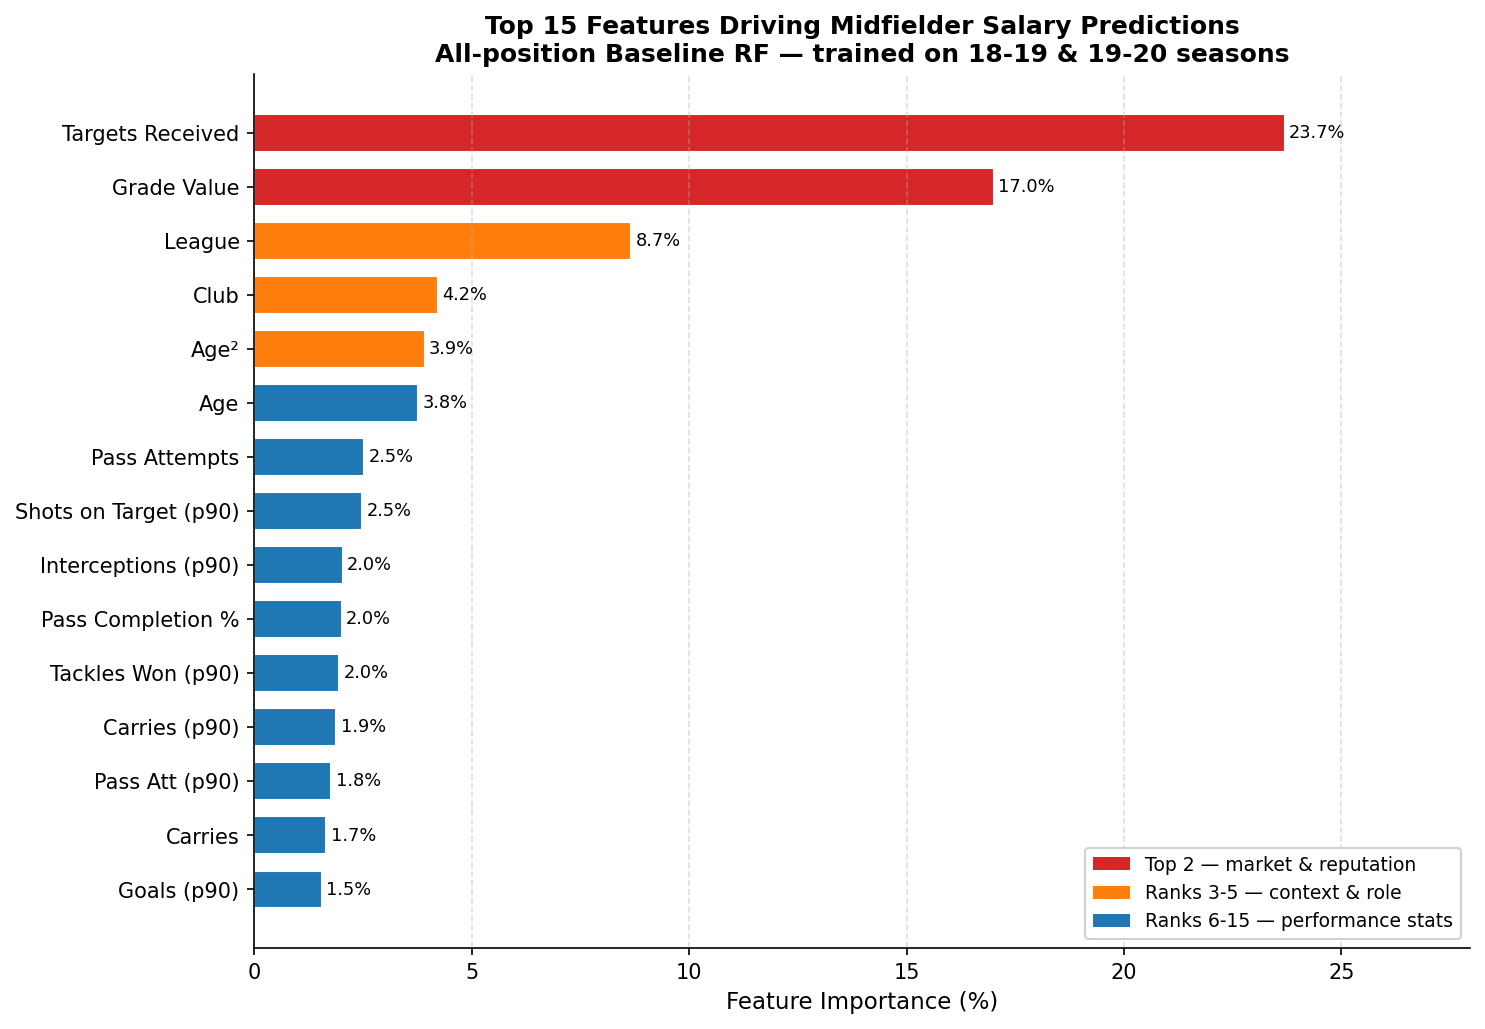
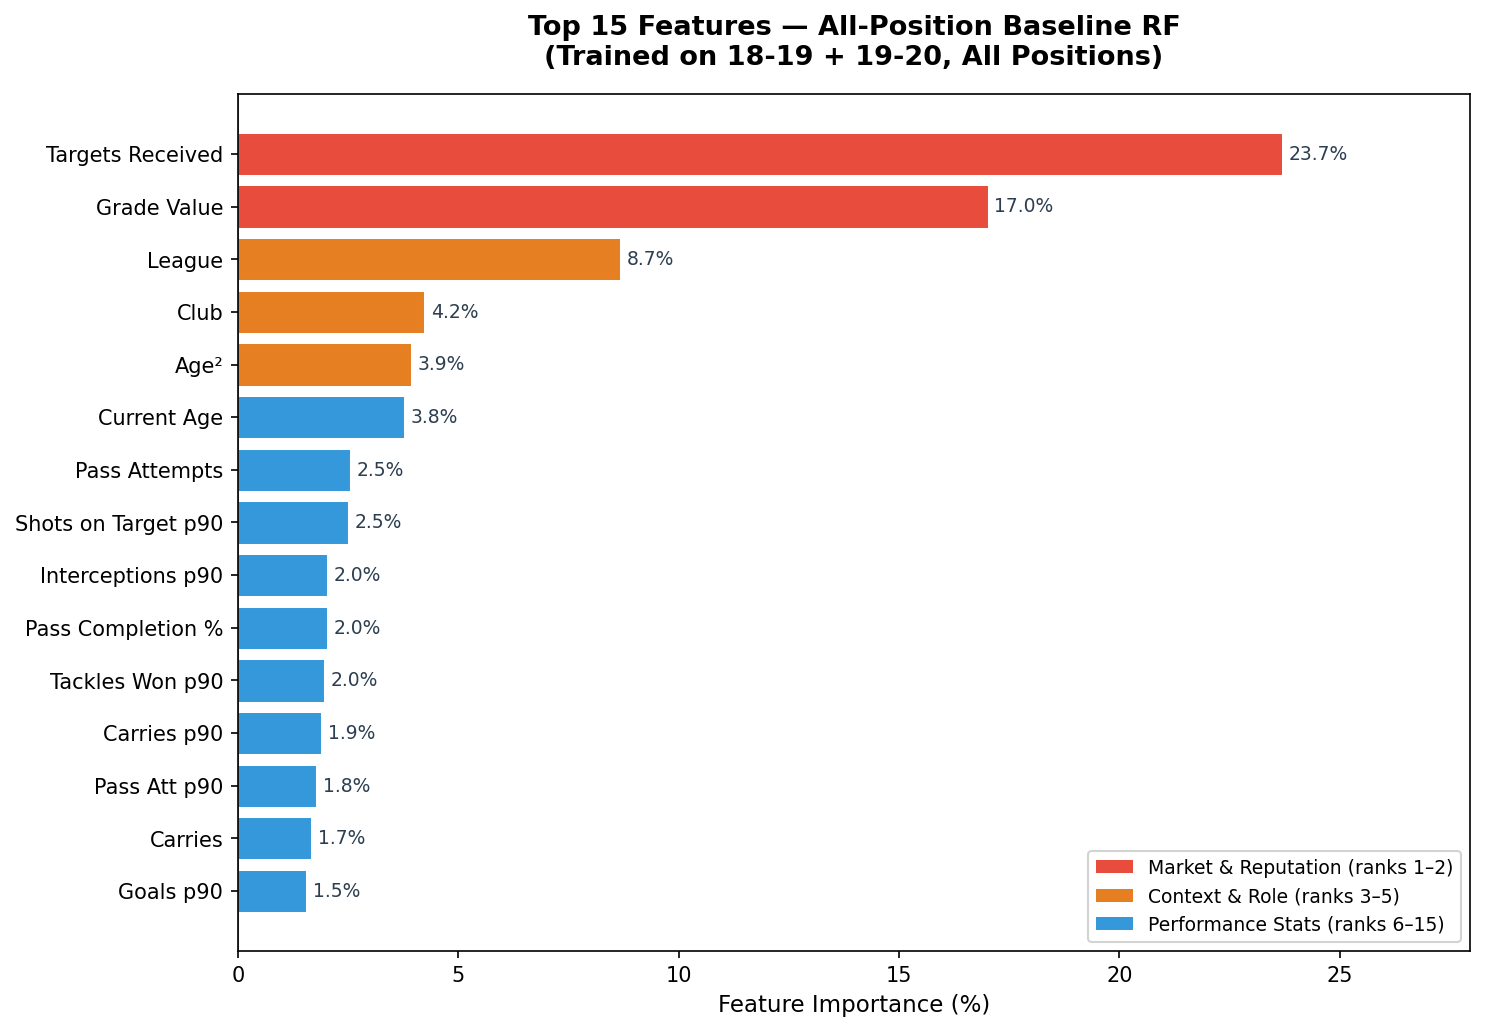
Fix feature importance chart: regenerate from all-position Baseline RF
Previous chart was incorrectly sourced from the midfielder-only model.
Now trained on all 2,440 rows (18-19 + 19-20, all positions) with the
same Baseline RF parameters (200 trees, no depth limit, random_state=2).
Top features unchanged: Targ 23.7%, Grade Value 17.0%, League 8.7%.

https://claude.ai/code/session_01NGFKQ1i5u3RByjw42w77Mf

diff --git a/generate_feature_importance_allpos.py b/generate_feature_importance_allpos.py
@@ -1,0 +1,156 @@
+"""
+Regenerate feature_importance.png from the all-position Baseline RF
+(same params used for the final model: all positions, train 18-19+19-20).
+"""
+
+import pandas as pd
+import numpy as np
+import matplotlib.pyplot as plt
+import warnings
+warnings.filterwarnings("ignore")
+
+from sklearn.ensemble import RandomForestRegressor
+
+# ── 1. LOAD ALL DATA (no position filter) ────────────────────────────────────
+df_1819 = pd.read_excel("processed_dataset/18-19.xlsx"); df_1819["Season"] = "18-19"
+df_1920 = pd.read_excel("processed_dataset/19-20.xlsx"); df_1920["Season"] = "19-20"
+df_2021 = pd.read_excel("processed_dataset/20-21.xlsx"); df_2021["Season"] = "20-21"
+all_data = pd.concat([df_1819, df_1920, df_2021], ignore_index=True)
+print(f"All positions — Total rows: {len(all_data)}")
+
+# ── 2. FEATURE ENGINEERING ───────────────────────────────────────────────────
+def engineer_features(df):
+    d = df.copy()
+    min90 = d["Min"].replace(0, np.nan) / 90
+    for col in ["Gls","Ast","SoT","TklW","Int","Clr","Carries",
+                "Dribble_Att","Pass_Att","Blocks","Press"]:
+        if col in d.columns:
+            d[f"{col}_p90"] = d[col] / min90
+    def parse_length(val):
+        try: return float(str(val).split()[0])
+        except: return np.nan
+    d["Contract_Years"] = d["LENGTH"].apply(parse_length)
+    d["Contract_Years"] = d["Contract_Years"].fillna(d["Contract_Years"].median())
+    d["Age_sq"]    = d["Current_Age"] ** 2
+    d["Min_share"] = d["Min"] / d["Min"].max()
+    return d
+
+all_data = engineer_features(all_data)
+
+FEATURE_COLS = [
+    "Current_Age","Age_sq","POS","grade_value",
+    "Starts","Min","Min_share",
+    "Gls","Ast","CrdY","CrdR","SoT","G_Sh",
+    "Pass_Att","Cmp_per","TklW","Blocks","Int","Clr",
+    "Dribble_Att","Dribble_Succ_per","Carries","Targ","Rec_per",
+    "League_num","Club_num","Contract_Years",
+    "Gls_p90","Ast_p90","SoT_p90","TklW_p90","Int_p90",
+    "Clr_p90","Carries_p90","Dribble_Att_p90","Pass_Att_p90",
+]
+FEATURE_COLS = [c for c in FEATURE_COLS if c in all_data.columns]
+
+# ── 3. TRAIN ON 18-19 + 19-20 (all positions) ────────────────────────────────
+train_df = all_data[all_data["Season"].isin(["18-19","19-20"])].copy()
+X_train  = train_df[FEATURE_COLS].fillna(0).values
+y_train  = np.log1p(train_df["WEEKLY_GROSS"].values)
+
+print(f"Training on {len(train_df)} rows (all positions, 18-19 + 19-20)")
+
+rf = RandomForestRegressor(
+    max_features=None, n_estimators=200, max_depth=None,
+    min_samples_split=2, min_samples_leaf=1,
+    criterion="squared_error", random_state=2, n_jobs=-1
+)
+rf.fit(X_train, y_train)
+print("Training complete.")
+
+# ── 4. FEATURE IMPORTANCE BAR CHART ─────────────────────────────────────────
+fi_df = pd.DataFrame({
+    "Feature":    FEATURE_COLS,
+    "Importance": rf.feature_importances_
+}).sort_values("Importance", ascending=False).head(15).reset_index(drop=True)
+
+print("\nTop 15 features (all-position model):")
+print(fi_df.to_string(index=False))
+
+# Friendly display names
+name_map = {
+    "Targ":               "Targets Received",
+    "grade_value":        "Grade Value",
+    "League_num":         "League",
+    "Club_num":           "Club",
+    "Age_sq":             "Age²",
+    "Current_Age":        "Current Age",
+    "Min":                "Minutes Played",
+    "Min_share":          "Minutes Share",
+    "Contract_Years":     "Contract Years",
+    "Pass_Att":           "Pass Attempts",
+    "Pass_Att_p90":       "Pass Att p90",
+    "Carries":            "Carries",
+    "Carries_p90":        "Carries p90",
+    "Rec_per":            "Receive %",
+    "Cmp_per":            "Pass Completion %",
+    "Starts":             "Starts",
+    "Gls":                "Goals",
+    "Ast":                "Assists",
+    "TklW":               "Tackles Won",
+    "TklW_p90":           "Tackles Won p90",
+    "Int":                "Interceptions",
+    "Int_p90":            "Interceptions p90",
+    "Clr":                "Clearances",
+    "Clr_p90":            "Clearances p90",
+    "SoT":                "Shots on Target",
+    "SoT_p90":            "Shots on Target p90",
+    "Gls_p90":            "Goals p90",
+    "Ast_p90":            "Assists p90",
+    "Dribble_Att":        "Dribble Attempts",
+    "Dribble_Att_p90":    "Dribble Att p90",
+    "Dribble_Succ_per":   "Dribble Success %",
+    "Blocks":             "Blocks",
+    "CrdY":               "Yellow Cards",
+    "CrdR":               "Red Cards",
+    "G_Sh":               "Goals per Shot",
+    "POS":                "Position",
+}
+fi_df["Label"] = fi_df["Feature"].map(name_map).fillna(fi_df["Feature"])
+
+# Colour coding: red=top 2 (market/reputation), orange=3-5 (context/role), blue=6-15
+colors = (
+    ["#e74c3c"] * 2 +
+    ["#e67e22"] * 3 +
+    ["#3498db"] * 10
+)[:len(fi_df)]
+
+fig, ax = plt.subplots(figsize=(10, 7))
+bars = ax.barh(
+    fi_df["Label"][::-1],
+    fi_df["Importance"][::-1] * 100,
+    color=colors[::-1],
+    edgecolor="white", linewidth=0.5
+)
+
+for bar, val in zip(bars, fi_df["Importance"][::-1] * 100):
+    ax.text(val + 0.15, bar.get_y() + bar.get_height() / 2,
+            f"{val:.1f}%", va="center", ha="left", fontsize=9, color="#2c3e50")
+
+ax.set_xlabel("Feature Importance (%)", fontsize=11)
+ax.set_title(
+    "Top 15 Features — All-Position Baseline RF\n"
+    "(Trained on 18-19 + 19-20, All Positions)",
+    fontsize=13, fontweight="bold", pad=14
+)
+ax.set_xlim(0, fi_df["Importance"].max() * 100 * 1.18)
+ax.axvline(0, color="grey", linewidth=0.5)
+ax.tick_params(axis="y", labelsize=10)
+
+from matplotlib.patches import Patch
+legend_handles = [
+    Patch(facecolor="#e74c3c", label="Market & Reputation (ranks 1–2)"),
+    Patch(facecolor="#e67e22", label="Context & Role (ranks 3–5)"),
+    Patch(facecolor="#3498db", label="Performance Stats (ranks 6–15)"),
+]
+ax.legend(handles=legend_handles, loc="lower right", fontsize=9, framealpha=0.85)
+
+plt.tight_layout()
+plt.savefig("feature_importance.png", dpi=150, bbox_inches="tight")
+print("\nSaved feature_importance.png (all-position Baseline RF)")
